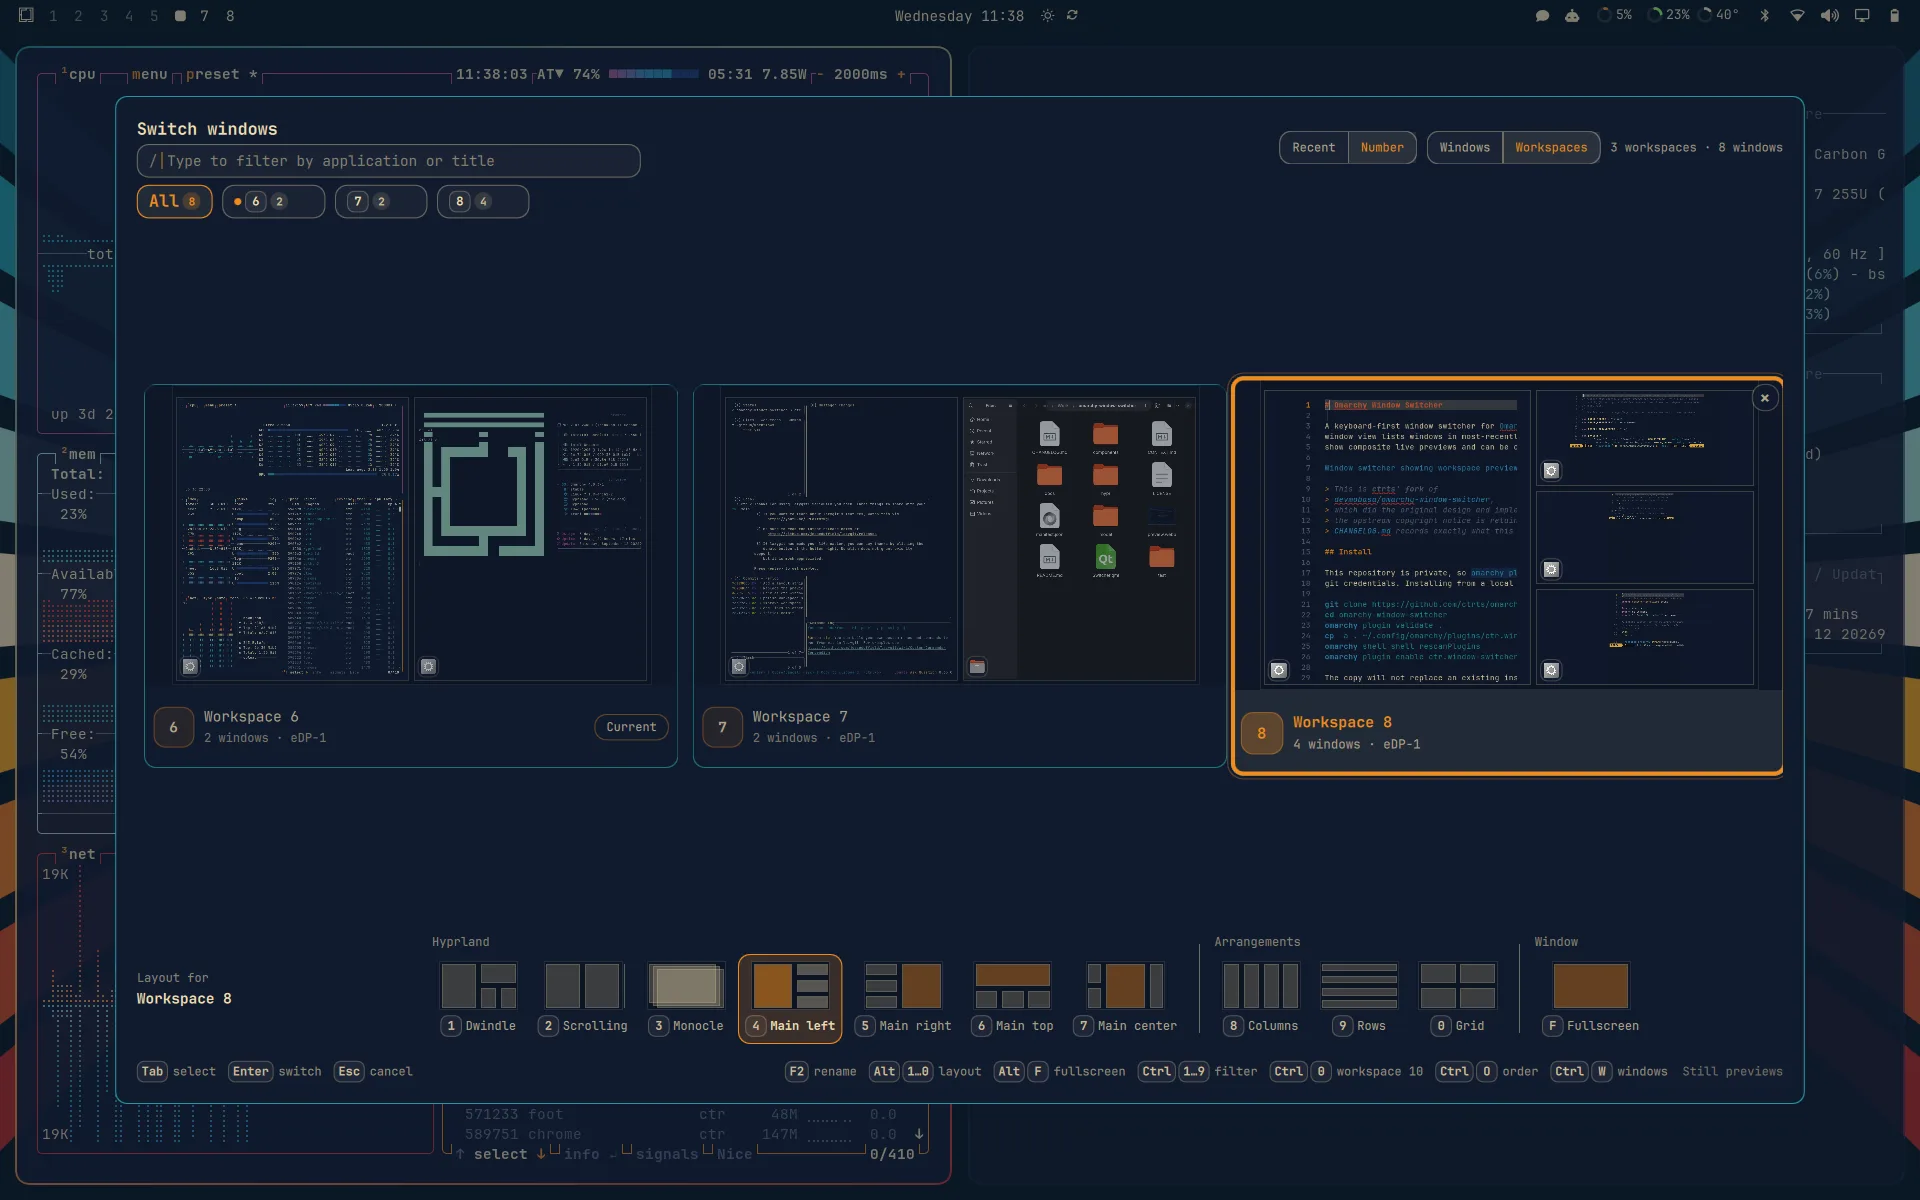
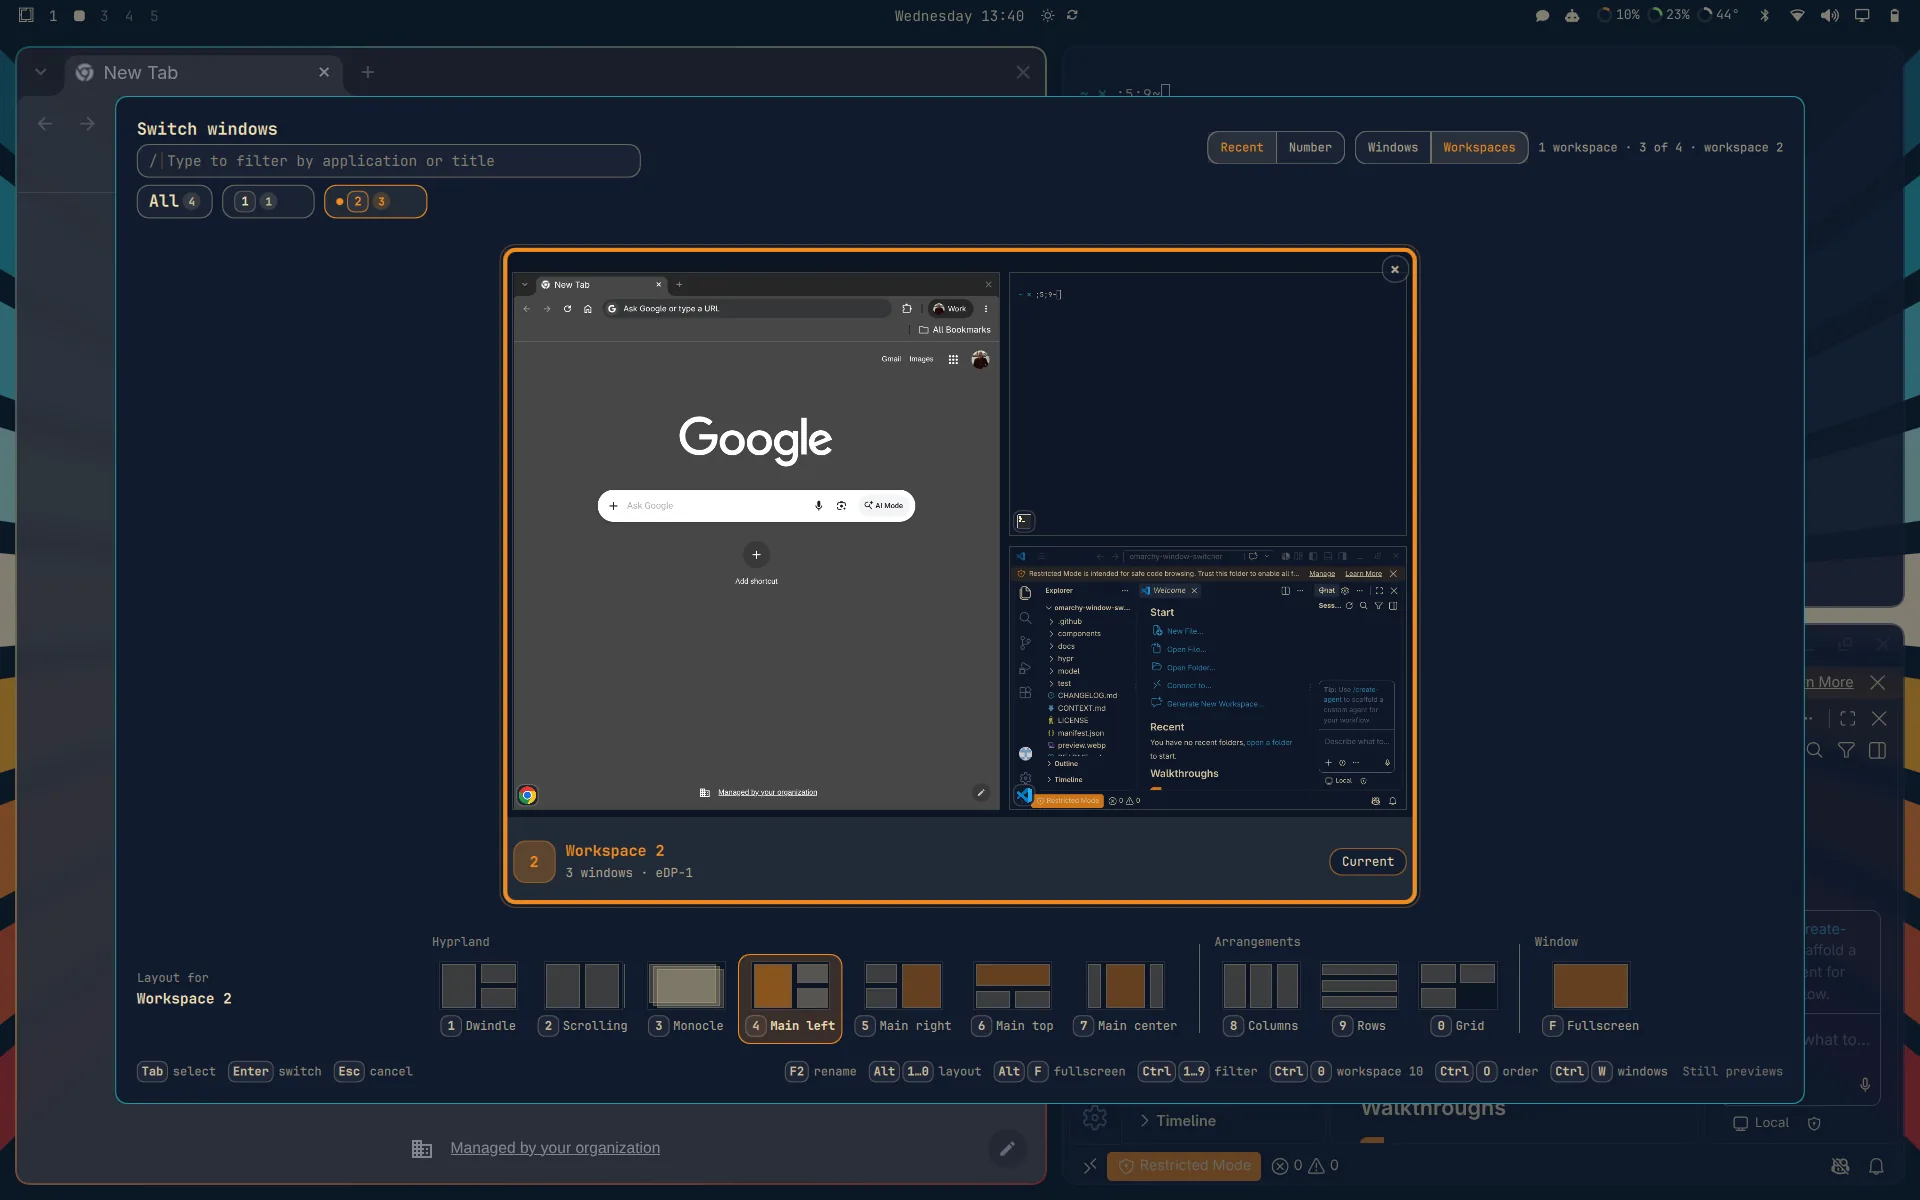
Keep the selected card inside the view; size cards to the monitor
The selected card is drawn 4% larger with an outer ring, but fitted grids
sized cards to the full view height and the views clip. A lone tall
workspace card lost its top and bottom borders. Size fitted grids against
the height left once that growth is set aside.

Workspace cards were sized for 16:9, so on a 16:10 monitor the canvas sat
between empty side bands. Size them to the monitor their windows are on.

Refresh preview.webp and docs/layouts.webp.

diff --git a/model/Metrics.js b/model/Metrics.js
@@ -115,8 +115,36 @@ function compactRows(metrics, gap) {
   return result
 }
 
+// Aspect ratio of the monitor the first placed window sits on. Workspace
+// cards draw windows on a canvas of this shape, so sizing the cards to it
+// instead of a fixed 16:9 keeps the canvas from being letterboxed.
+function monitorAspect(windows, fallback) {
+  var list = windows || []
+  for (var i = 0; i < list.length; i++) {
+    var rect = list[i] && list[i].monitorRect ? list[i].monitorRect : null
+    if (rect && rect.width > 0 && rect.height > 0) return rect.width / rect.height
+  }
+  return Number(fallback) > 0 ? Number(fallback) : 16 / 9
+}
+
+// The selected card is drawn larger than its slot (CardFrame scales it and
+// adds an outer ring), and the views clip at their edges. Fitting cards into
+// the full height let a lone tall card grow past the viewport, cutting off
+// its top and bottom borders, so fitted grids size against the height that
+// is left once that growth is set aside.
+var SELECTED_SCALE = 1.04
+
+function selectionFitHeight(availableHeight, ring) {
+  var height = Math.max(1, Number(availableHeight) || 1)
+  var outline = Math.max(0, Number(ring) || 0)
+  return Math.max(1, Math.floor((height - outline * 2) / SELECTED_SCALE))
+}
+
 if (typeof module !== "undefined") {
   module.exports = {
+    SELECTED_SCALE: SELECTED_SCALE,
+    selectionFitHeight: selectionFitHeight,
+    monitorAspect: monitorAspect,
     gridMetrics: gridMetrics,
     flowMetrics: flowMetrics,
     compactRows: compactRows

diff --git a/components/SwitcherViewArea.qml b/components/SwitcherViewArea.qml
@@ -38,14 +38,16 @@ Item {
   signal workspaceWindowActivated(int windowIndex)
   signal workspaceWindowCloseRequested(int windowIndex)
 
+  // Room for the selected card's scale and ring, which the views would clip.
+  readonly property real fitHeight: Metrics.selectionFitHeight(height, Style.space(3) + Style.spacing.hairline)
   readonly property var flatMetrics: Metrics.compactRows(Metrics.gridMetrics(
-    windows.length, width, height,
+    windows.length, width, fitHeight,
     Style.spacing.xxl, Style.space(160), 1.6, Style.space(68)), Style.spacing.xxl)
   readonly property var groupMetrics: Metrics.flowMetrics(
     width, Style.spacing.xxl, Style.space(160), 1.6, Style.space(68))
   readonly property var workspaceMetrics: Metrics.compactRows(Metrics.gridMetrics(
-    groups.length, width, height,
-    Style.spacing.xxl, Style.space(240), 16 / 9, Style.space(68)), Style.spacing.xxl)
+    groups.length, width, fitHeight,
+    Style.spacing.xxl, Style.space(240), Metrics.monitorAspect(windows), Style.space(68)), Style.spacing.xxl)
 
   readonly property int flatColumns: flatMetrics.columns
   readonly property int groupColumns: groupMetrics.columns

diff --git a/components/WorkspaceCard.qml b/components/WorkspaceCard.qml
@@ -6,6 +6,7 @@ import QtQuick
 import Quickshell
 import Quickshell.Wayland
 import qs.Commons
+import "../model/Metrics.js" as Metrics
 import "../model/WindowSwitcherModel.js" as WindowModel
 
 CardFrame {
@@ -46,13 +47,7 @@ CardFrame {
   // must not swallow the liveSelected stream.
   readonly property int liveIndex: WindowModel.firstShownIndex(layout)
   readonly property var captureOrdinals: WindowModel.shownOrdinals(layout)
-  readonly property real monitorAspect: {
-    for (var i = 0; i < windows.length; i++) {
-      var rect = windows[i] && windows[i].monitorRect ? windows[i].monitorRect : null
-      if (rect && rect.width > 0 && rect.height > 0) return rect.width / rect.height
-    }
-    return 16 / 9
-  }
+  readonly property real monitorAspect: Metrics.monitorAspect(windows)
   readonly property var frontWindow: windows.length > 0 ? windows[0] : null
   readonly property var hoveredRecord: hoveredWindow >= 0 && hoveredWindow < windows.length
     ? windows[hoveredWindow] : null

diff --git a/test/metrics.test.js b/test/metrics.test.js
@@ -88,3 +88,18 @@ assert.ok(scrolled.cardWidth >= 160,
   `the scrolling fallback holds the readable floor, got ${scrolled.cardWidth}`)
 
 console.log('ok - metrics')
+
+// A selected card grows by SELECTED_SCALE plus its ring; sized against the
+// fit height, a lone card still fits the real viewport once it is selected.
+{
+  const viewport = 700
+  const ring = 4
+  const fit = metricsModel.selectionFitHeight(viewport, ring)
+  const lone = metricsModel.gridMetrics(1, 1800, fit, 12, 240, 16 / 9, 68)
+  assert.ok(lone.cardHeight * metricsModel.SELECTED_SCALE + ring * 2 <= viewport,
+    'the selected card keeps its borders inside the view')
+}
+
+assert.equal(metricsModel.monitorAspect([{}, { monitorRect: { width: 1920, height: 1200 } }]), 1.6,
+  'cards take the shape of the monitor their windows are on')
+assert.equal(metricsModel.monitorAspect([]), 16 / 9, 'no placed window falls back to 16:9')

diff --git a/test/contract.test.js b/test/contract.test.js
@@ -222,7 +222,7 @@ assert.doesNotMatch(card, /Behavior on (?:color|scale)/,
   'window selection handoff is atomic instead of showing two selected cards')
 assert.match(cardFrame, /required property bool selected/,
   'the shared card frame owns selection state')
-assert.match(cardFrame, /opacity: selected \? 1 : 0\.7[\s\S]*?scale: selected \? 1\.04 : 1/,
+assert.match(cardFrame, /opacity: selected \? 1 : 0\.7[\s\S]*?scale: selected \? Metrics\.SELECTED_SCALE : 1/,
   'the shared frame owns the selected-card visual hierarchy')
 assert.match(card, /^CardFrame \{/m, 'window cards use the shared selection frame')
 assert.match(workspaceCard, /^CardFrame \{/m, 'workspace cards use the shared selection frame')

diff --git a/components/CardFrame.qml b/components/CardFrame.qml
@@ -1,5 +1,6 @@
 import QtQuick
 import qs.Commons
+import "../model/Metrics.js" as Metrics
 
 // Shared selection shell for every window-bearing card. Keeping opacity,
 // scale, stacking, ring, and border here makes the two card views hand off
@@ -13,7 +14,7 @@ Item {
   readonly property int contentInset: surface.border.width
 
   opacity: selected ? 1 : 0.7
-  scale: selected ? 1.04 : 1
+  scale: selected ? Metrics.SELECTED_SCALE : 1
   z: selected ? 2 : 1
 
   Rectangle {

diff --git a/CHANGELOG.md b/CHANGELOG.md
@@ -55,6 +55,13 @@ backed by the test suite and static analysis only.
   arrive as Qt sequences, which that check rejects. Every rect was null, so
   every card used the even-tile fallback — and a layout change could never
   show on its card.
+- **The selected card keeps all four borders.** It is drawn 4% larger with an
+  outer ring, but cards were sized to the full view height, which clips. A lone
+  tall workspace card lost its top and bottom borders; fitted grids now size
+  against the height left once that growth is set aside.
+- **Workspace cards take the monitor's shape.** Cards were sized for 16:9, so
+  on a 16:10 screen the workspace canvas sat between empty side bands. Cards
+  now use the aspect ratio of the monitor their windows are on.
 
 ### Performance
 

diff --git a/README.md b/README.md
@@ -102,7 +102,7 @@ stays open so the card shows the result; Enter or Escape carries on as usual.
 | Alt+0 | Grid | Arrangement |
 | Alt+F | Fullscreen | Window |
 
-![Workspace 8 after picking Main left in the layout strip](docs/layouts.webp)
+![Workspace 2 after picking Main left in the layout strip](docs/layouts.webp)
 
 Fullscreen is a toggle on the workspace's most recent window — the one Enter
 switches to — rather than a saved layout. It is marked while that workspace has
